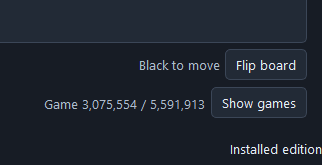
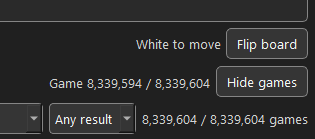
Refresh README screenshots and large-file playback example

Changed region(s): [[0.0, 0.0, 1.0, 0.7194], [0.0, 0.7194, 1.0, 0.9784]]

diff --git a/README.md b/README.md
@@ -87,9 +87,10 @@ games**, including loading sampled games. Indexing peaked at approximately
 **12.9 GiB of RAM**. Performance and memory requirements vary by hardware and
 PGN contents.
 
-![PGN Player showing game 3,075,554 of 5,591,913](docs/images/large-file-example.png)
+![PGN Player showing game 8,339,594 of 8,339,604](docs/images/large-file-example.png)
 
-Example: viewing game **3,075,554** in a PGN containing **5,591,913 games**.
+Additional playback check: opened and played games from a PGN containing
+**8,339,604 games**. The screenshot shows game **8,339,594**.
 
 ### Guess the Move
 
